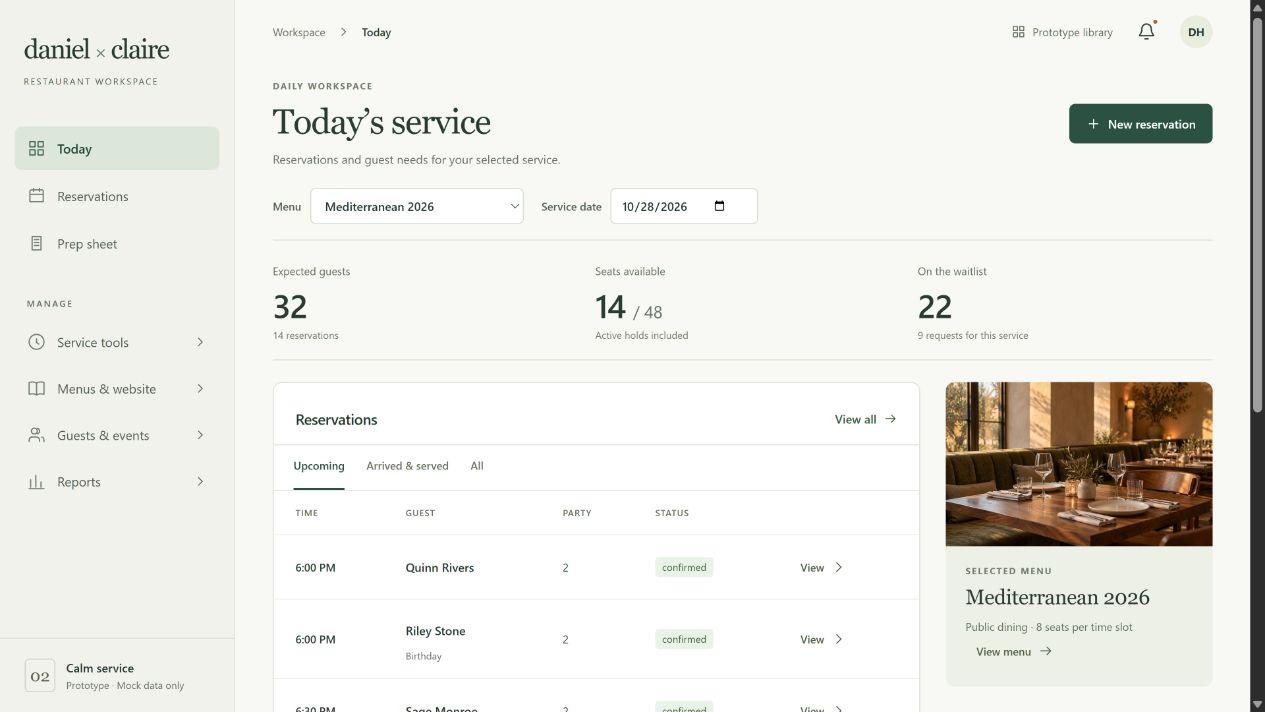
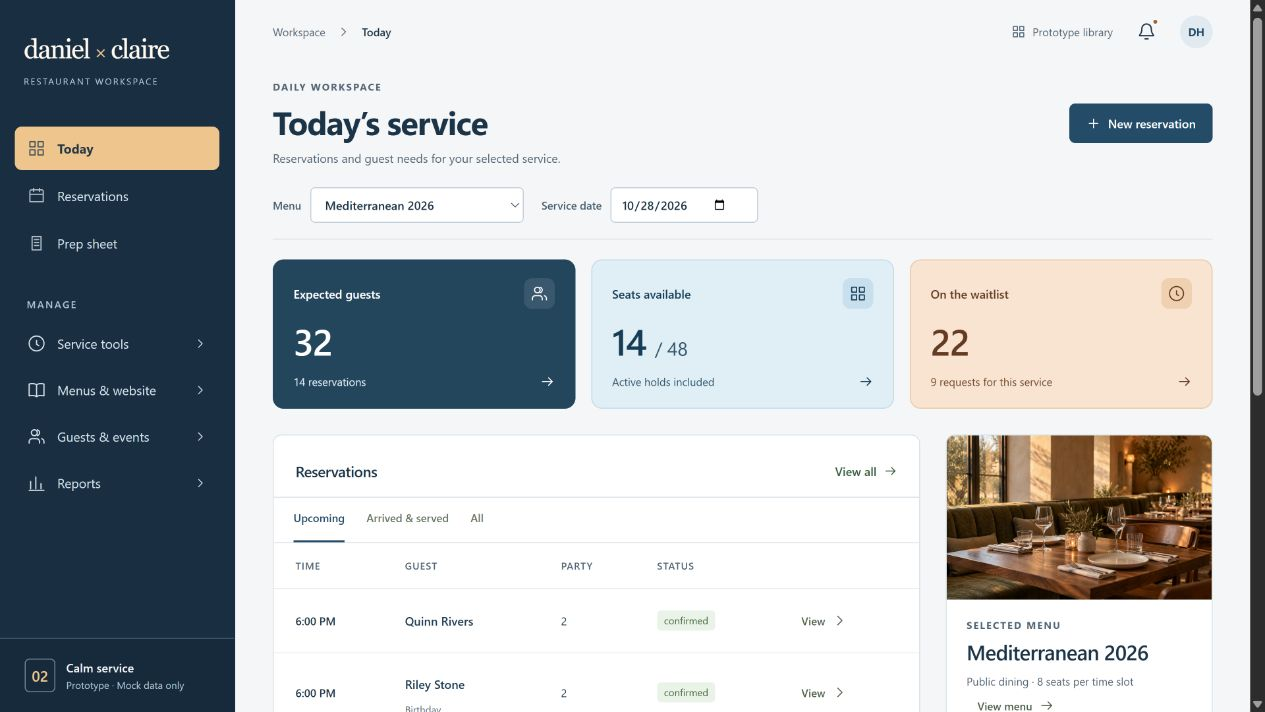
style: distinguish prototype two with colored service cards

diff --git a/public/calm.css b/public/calm.css
@@ -1,47 +1,51 @@
-/* Prototype 02: warm paper, a quieter workspace, and details on demand.
-   Existing component rules keep every operational form and workflow available. */
-:root { --forest:#2b5142; --ink:#293b33; --muted:#667168; --line:#e0e3da; --wash:#eef1e9; --sidebar:238px; background:#f8f8f4; color:var(--ink); font-family:"Segoe UI",system-ui,sans-serif; }
-body { background:#f8f8f4; }
-h1 { font-family:Georgia,serif; font-size:35px; font-weight:400; letter-spacing:-.9px; }
+/* Prototype 02: ink-blue navigation, a light working surface, and warm image accents.
+   Three clickable summary cards lead into the short roster; extra detail stays disclosed.
+   Card lift and arrow movement clarify affordance; reduced motion removes both. */
+:root { --forest:#244c68; --ink:#1c3448; --muted:#526575; --line:#dbe3e9; --wash:#eaf0f5; --sidebar:238px; background:#f4f6f8; color:var(--ink); font-family:"Segoe UI",system-ui,sans-serif; }
+body { background:#f4f6f8; }
+h1 { font-family:"Segoe UI",system-ui,sans-serif; font-size:33px; font-weight:650; letter-spacing:-.9px; }
 h2 { font-weight:600; font-size:17px; }
-.sidebar { background:#f1f2ec; border-color:#e0e3da; }
-.brand { padding:34px 24px 30px; border:0; }
+.sidebar { background:#192e40; border-color:#192e40; color:#edf3f7; }
+.brand { padding:34px 24px 30px; border:0; color:#fff9ef; }
 .brand-name { font-size:27px; letter-spacing:-1.2px; white-space:nowrap; }
-.brand-name span { font-size:19px; font-style:normal; margin:0; }
-.brand-caption { font-size:9px; letter-spacing:1.5px; margin-top:10px; }
+.brand-name span { font-size:19px; font-style:normal; margin:0; color:#edc391; }
+.brand-caption { font-size:9px; letter-spacing:1.5px; margin-top:10px; color:#b5c7d7; }
 .nav-scroll { padding:6px 15px 24px; }
 .nav-primary { padding-bottom:28px; }
-.nav-label { font-size:9px; font-weight:600; color:#657262; margin:0 0 10px; padding:0 12px; letter-spacing:1.5px; }
-.nav-item { min-height:44px; font-size:13px; gap:12px; padding:11px 13px; border-radius:7px; color:#526052; }
-.nav-item.active { background:#dde7d9; box-shadow:none; color:#234735; }
-.nav-item:hover { background:#e5eade; }
+.nav-label { font-size:10px; font-weight:600; color:#b1c3d3; margin:0 0 10px; padding:0 12px; letter-spacing:1.5px; }
+.nav-item { min-height:44px; font-size:13px; gap:12px; padding:11px 13px; border-radius:7px; color:#d4e1eb; }
+.nav-item.active { background:#efc58e; box-shadow:none; color:#233747; font-weight:650; }
+.nav-item:hover { background:#2a455a; color:#fff; }.nav-item.active:hover { background:#f4d3a8; color:#233747; }
 .nav-primary .nav-item { margin:4px 0; }
 .nav-primary .nav-item .icon { width:18px; height:18px; }
 .nav-section { margin:3px 0; }
-.nav-section>summary { display:flex; align-items:center; gap:12px; padding:12px 13px; border-radius:7px; min-height:44px; font-size:13px; color:#526052; cursor:pointer; list-style:none; }
+.nav-section>summary { display:flex; align-items:center; gap:12px; padding:12px 13px; border-radius:7px; min-height:44px; font-size:13px; color:#d4e1eb; cursor:pointer; list-style:none; }
 .nav-section>summary::-webkit-details-marker { display:none; }
-.nav-section>summary:hover { background:#e5eade; }
-.nav-section>summary>.icon:first-child { width:18px; height:18px; opacity:.8; }
+.nav-section>summary:hover { background:#2a455a; color:white; }
+.nav-section>summary>.icon:first-child { width:18px; height:18px; opacity:1; }
 .nav-section .nav-chevron { margin-left:auto; width:13px; height:13px; transition:transform .15s; }
 .nav-section[open] .nav-chevron { transform:rotate(90deg); }
 .nav-children { padding:3px 0 7px 18px; }
 .nav-children .nav-item { min-height:39px; padding:8px 12px; font-size:12px; }
-.sidebar-foot { background:transparent; padding:20px 25px; border-color:var(--line); gap:11px; }
-.concept-number { display:grid; place-items:center; width:31px; height:34px; border:1px solid #ccd4c5; border-radius:5px; font:17px Georgia,serif; color:#526c49; }
-.sidebar-foot strong { font-size:12px; }.sidebar-foot small { display:block; margin-top:3px; font-size:10px; }
-.topbar { background:#f8f8f4; height:64px; border:0; padding:0 38px; }
+.sidebar-foot { background:#162a3b; padding:20px 25px; border-color:#3b5061; gap:11px; }
+.concept-number { display:grid; place-items:center; width:31px; height:34px; border:1px solid #708596; border-radius:5px; font:600 15px "Segoe UI",sans-serif; color:#efc58e; }
+.sidebar-foot strong { font-size:12px; }.sidebar-foot small { display:block; margin-top:3px; font-size:10px; color:#b5c7d7; }.sidebar-close { color:#edf3f7; }.sidebar-close:hover { background:#2a455a; }
+.topbar { background:#f4f6f8; height:64px; border:0; padding:0 38px; }
 .breadcrumb { font-size:11px; }.topbar-actions { gap:15px; }
-.library-link { display:flex; align-items:center; gap:7px; padding:8px 0; text-decoration:none; font-size:11px; color:#61705e; }
+.library-link { display:flex; align-items:center; gap:7px; padding:8px 0; text-decoration:none; font-size:11px; color:#526575; }
 .library-link:hover { color:var(--forest); text-decoration:underline; }.library-link .icon { width:14px; height:14px; }
-.topbar .avatar { background:#e9eddf; border:0; }
+.topbar .avatar { background:#e1eaf1; border:0; color:#244c68; }
 main { padding:16px 38px 32px; max-width:1540px; }
-.page-heading { margin-bottom:20px; align-items:center; }.eyebrow { letter-spacing:1.3px; color:#737c6e; font-size:9px; margin-bottom:7px; }.subtitle { font-size:12px; margin-top:7px; max-width:600px; }
+.page-heading { margin-bottom:20px; align-items:center; }.eyebrow { letter-spacing:1.3px; color:#526575; font-size:10px; margin-bottom:7px; }.subtitle { font-size:12px; margin-top:7px; max-width:600px; }
 .heading-actions { gap:8px; }.btn { min-height:40px; padding:10px 16px; border-radius:6px; font-size:12px; box-shadow:none; }.btn.primary { background:var(--forest); border-color:var(--forest); }.btn.secondary { background:#fff; border-color:#d8dfd0; }.btn.quiet { background:transparent; }.btn.small { min-height:32px; padding:6px 10px; font-size:11px; }
 .panel { border:1px solid var(--line); border-radius:9px; box-shadow:none; background:white; }.panel-head { padding:20px 22px 17px; }.panel-head p { font-size:11px; }.panel-body { padding:6px 22px 20px; }
 .contextbar { border:0; border-bottom:1px solid var(--line); border-radius:0; background:transparent; padding:0 0 16px; margin-bottom:20px; gap:18px; }.context-date { display:none; }.contextbar .live { display:none; }.field.compact { font-size:11px; gap:9px; }.field.compact input,.field.compact select { background:white; border-color:#d6decf; border-radius:5px; min-height:36px; font-size:12px; }
-.service-summary { display:grid; grid-template-columns:repeat(3,minmax(0,1fr)); gap:28px; border-bottom:1px solid var(--line); padding:0 0 18px; margin-bottom:22px; }
-.service-summary a { display:block; text-decoration:none; }.service-summary a:hover .summary-label { color:var(--forest); text-decoration:underline; }
-.summary-label { color:#657160; font-size:11px; }.summary-value { display:block; font-size:33px; font-weight:500; letter-spacing:-1px; line-height:1.4; margin:3px 0 1px; }.summary-value small { font-size:17px; font-weight:400; letter-spacing:0; }.summary-note { display:block; color:#747d6c; font-size:10px; }
+.service-summary { display:grid; grid-template-columns:repeat(3,minmax(0,1fr)); gap:16px; padding:0; margin:0 0 26px; border:0; }
+.summary-card { --card-bg:#24465d; --card-ink:#fff; --card-secondary:#e2edf4; --card-border:#24465d; --symbol-bg:#ffffff19; display:block; min-width:0; padding:18px 20px; text-decoration:none; border:1px solid var(--card-border); border-radius:11px; background:var(--card-bg); color:var(--card-ink); transition:transform .16s ease,box-shadow .16s ease; }
+.summary-card.seats { --card-bg:#e0eef6; --card-ink:#173d56; --card-secondary:#31576d; --card-border:#c3dbe9; --symbol-bg:#c8dfed; }
+.summary-card.waitlist { --card-bg:#f8e4d0; --card-ink:#663b23; --card-secondary:#754b30; --card-border:#ebc9a8; --symbol-bg:#efd0b0; }
+.summary-card-head,.summary-card-foot { display:flex; justify-content:space-between; align-items:center; gap:10px; }.summary-label { color:var(--card-ink); font-size:12px; font-weight:550; }.summary-symbol { display:grid; place-items:center; width:31px; height:31px; border-radius:8px; background:var(--symbol-bg); flex-shrink:0; }.summary-symbol .icon { width:17px; height:17px; }
+.summary-value { display:block; font-size:37px; font-weight:600; letter-spacing:-1px; line-height:1.2; margin:10px 0 11px; }.summary-value small { font-size:19px; color:var(--card-secondary); font-weight:400; letter-spacing:0; }.summary-note { display:block; color:var(--card-secondary); font-size:11px; line-height:1.5; }.summary-arrow { width:15px; height:15px; color:var(--card-ink); flex-shrink:0; transition:transform .16s ease; }.summary-card:hover { transform:translateY(-2px); box-shadow:0 7px 17px #18344b16; }.summary-card:hover .summary-arrow { transform:translateX(3px); }.summary-card:focus-visible { outline:3px solid #a25d20; outline-offset:4px; }
 .calm-layout { display:grid; grid-template-columns:minmax(0,1fr) 270px; gap:26px; align-items:start; }
 .calm-primary,.calm-aside { min-width:0; }.calm-primary .panel { overflow:hidden; }.calm-primary .panel-head { padding-bottom:10px; }
 .calm-primary .roster-tabs { padding:0 20px; }.calm-primary .roster-tabs .tabs { gap:22px; }.calm-primary .roster-tabs .tab { padding:10px 0 13px; font-size:11px; }
@@ -54,11 +58,16 @@ main { padding:16px 38px 32px; max-width:1540px; }
 .toolbar { margin:17px 0; gap:13px; }.search input { min-height:40px; border-color:#d6decf; font-size:12px; }.tabs-bar { border-bottom-color:var(--line); }.tabs .tab { font-weight:500; }.result-count { font-size:11px; color:#6d7868; }.filter-disclosure { position:relative; }.filter-disclosure>summary { display:flex; align-items:center; gap:7px; padding:9px 12px; min-height:40px; font-size:12px; background:white; border:1px solid #d6decf; border-radius:5px; cursor:pointer; list-style:none; }.filter-disclosure>summary::-webkit-details-marker { display:none; }.filter-disclosure>summary .icon { width:14px; height:14px; }.filter-popover { display:flex; gap:15px; padding:16px; position:absolute; top:48px; right:0; z-index:8; border:1px solid var(--line); border-radius:8px; background:white; box-shadow:0 8px 28px #24382b12; min-width:320px; }.filter-popover .field { flex-direction:column; align-items:stretch; }
 .menu-collection { display:flex; flex-direction:column; gap:18px; }.menu-editorial { display:grid; grid-template-columns:210px minmax(0,1fr); background:white; border:1px solid var(--line); border-radius:9px; overflow:hidden; }.menu-editorial>img { width:100%; height:100%; min-height:205px; object-fit:cover; }.menu-editorial.no-photo { grid-template-columns:1fr; }.menu-editorial-body { padding:23px 26px; }.menu-editorial-head { display:flex; align-items:center; justify-content:space-between; gap:18px; }.menu-editorial h2 { font:25px Georgia,serif; }.menu-editorial p { color:var(--muted); font-size:12px; margin-top:11px; max-width:650px; }.menu-facts { display:flex; flex-wrap:wrap; gap:10px 24px; font-size:11px; padding:17px 0; color:#66735e; }.menu-facts strong { font-weight:550; color:var(--ink); }.menu-release { font-size:11px; color:#66735e; }.menu-release strong { font-weight:500; }.menu-editorial .action-row { margin-top:17px; }
 .booking-extras { grid-column:1/-1; border-top:1px solid var(--line); padding-top:14px; }.booking-extras summary { cursor:pointer; font-size:12px; padding:4px 0; font-weight:500; }.booking-extras .form-grid { margin-top:18px; }.dialog-body .field input,.dialog-body .field select,.dialog-body .field textarea { border-color:#c8d2c0; }.dialog-head { padding:24px; }.dialog-head h2 { font-family:Georgia,serif; font-size:25px; font-weight:400; }.dialog-body { padding:24px; }.dialog-body .form-grid { gap:18px; }.subtle-footer { font-size:10px; margin-top:30px; }.pagination { font-size:10px; padding:14px 20px; }.pagination .btn { font-size:10px; }.notes-box { background:#f0f3e9; }.badge { font-weight:450; }.panel .table-date { background:#f7f8f3; }
+.btn.primary:hover { background:#17384f; border-color:#17384f; }.btn.secondary { border-color:#cad6df; }.field>span { color:#485e70; }.contextbar .field.compact input,.contextbar .field.compact select,.search input,.filter-disclosure>summary { border-color:#c2d0dc; }.calm-roster th { color:#526575; font-size:10px; }.panel .table-date { background:#f0f4f7; color:#41596c; }.result-count { color:#526575; }.calm-roster .guest-name { color:#213d53; }
+.menu-feature { background:#fff; border:1px solid var(--line); }.menu-feature h2,.menu-editorial h2 { font-family:"Segoe UI",system-ui,sans-serif; font-weight:600; letter-spacing:-.5px; }.menu-feature h2 { font-size:21px; }.menu-feature p:not(.eyebrow),.menu-facts,.menu-release { color:#526575; }.menu-editorial h2 { font-size:24px; }.dialog-head h2 { font-family:"Segoe UI",system-ui,sans-serif; font-size:23px; font-weight:600; letter-spacing:-.5px; }
+.service-needs h2 { font-size:13px; }.needs-link .needs-count { background:#f4e1cc; color:#71442b; }.needs-link strong { font-size:12px; }.needs-link small { color:#526575; }.needs-link>.icon { color:#526575; }.prep-shortcut { display:inline-flex; gap:6px; margin-top:17px; font-size:12px; }.service-disclosure { background:#fff; }.service-disclosure>summary small { color:#526575; }.notes-box { background:#edf3f7; }.dialog-body .field input,.dialog-body .field select,.dialog-body .field textarea { border-color:#bdccd8; }
 @media(min-width:1600px) { :root{--sidebar:250px;} main { padding:24px 48px 40px; }.topbar { padding:0 48px; }.calm-layout { grid-template-columns:minmax(0,1fr) 300px; gap:32px; }.menu-feature img { height:190px; } }
 @media(max-width:1200px) { :root{--sidebar:218px;} .brand { padding-left:21px; }.brand-name { font-size:24px; }.nav-scroll { padding-left:10px; padding-right:10px; } main { padding:20px 26px 30px; }.topbar { padding:0 26px; }.calm-layout { grid-template-columns:minmax(0,1fr) 235px; gap:20px; }.calm-roster th,.calm-roster td { padding:15px 12px; }.menu-feature img { height:154px; }.menu-editorial { grid-template-columns:180px minmax(0,1fr); } }
 @media(max-width:1080px) { .calm-layout { grid-template-columns:minmax(0,1fr); }.calm-aside { display:grid; grid-template-columns:1fr 1fr; gap:24px; }.menu-feature { display:grid; grid-template-columns:1fr; }.menu-feature img { height:145px; }.service-needs { padding-top:5px; }.calm-aside>.service-disclosure { grid-column:1/-1; margin-top:0; }.calm-roster th,.calm-roster td { padding:16px 18px; } }
 @media(max-width:760px) { :root { --sidebar:260px; }.sidebar { width:260px; }.brand { padding:29px 22px; }.brand-name { font-size:26px; }.sidebar-close { top:25px; right:8px; }.topbar { height:64px; padding:0 20px; }.topbar-actions { gap:10px; }.library-link span { display:none; }.library-link { padding:10px; }.library-link .icon { width:17px; height:17px; }.breadcrumb>span:first-of-type,.breadcrumb>.icon { display:none; } main { padding:22px 20px 28px; } h1 { font-size:31px; }.page-heading { align-items:flex-start; gap:14px; margin-bottom:22px; }.page-heading .subtitle { font-size:11px; }.heading-actions .btn { white-space:nowrap; font-size:11px; padding:10px 12px; }.heading-actions .btn .icon { width:15px; height:15px; }.page-heading .eyebrow { margin-top:0; }.contextbar { gap:12px; padding-bottom:18px; }.contextbar .field.compact { flex-direction:column; align-items:flex-start; flex:1 1 140px; gap:6px; }.contextbar select,.contextbar input { width:100%; }.service-summary { gap:16px; padding-bottom:20px; margin-bottom:21px; }.summary-value { font-size:29px; }.summary-value small { font-size:14px; }.summary-label { font-size:10px; }.summary-note { font-size:9px; max-width:95px; }.calm-primary .panel-head { padding:18px 16px 10px; }.calm-primary .panel-head h2 { font-size:15px; }.calm-primary .panel-head>.text-link { font-size:11px; }.calm-primary .roster-tabs { padding:0 15px; }.calm-primary .roster-tabs .tabs { gap:17px; }.calm-primary .roster-tabs .tab { font-size:10px; }.calm-roster th,.calm-roster td { padding:14px 11px; }.calm-roster th:first-child,.calm-roster td:first-child { padding-left:16px; }.calm-primary .calm-roster { min-width:470px; }.calm-aside { grid-template-columns:1fr; gap:22px; }.menu-feature { grid-template-columns:1fr 1fr; }.menu-feature img { height:100%; min-height:185px; }.menu-feature figcaption { padding:18px 16px; }.menu-feature h2 { font-size:20px; }.service-needs { padding:0; }.calm-aside { margin-top:4px; }.service-disclosure>summary small { display:none; }.more-insights { margin-top:22px; }.more-insights .activity-strip { grid-template-columns:1fr; }.menu-editorial { grid-template-columns:1fr; }.menu-editorial>img { height:160px; min-height:0; }.menu-editorial-body { padding:20px; }.menu-editorial h2 { font-size:23px; }.filter-popover { min-width:280px; flex-direction:column; left:auto; right:0; }.toolbar .search { flex:1 1 180px; }.toolbar .result-count { flex-basis:100%; }.subtle-footer { flex-direction:column; gap:4px; }.subtle-footer .btn { padding-left:5px; }.insight-intro { gap:15px; }.menu-editorial-head { flex-wrap:wrap; gap:10px; } }
 @media(max-width:420px) { .page-heading { flex-wrap:wrap; }.page-heading .heading-actions { width:100%; }.page-heading .heading-actions .btn.primary { margin-left:auto; }.menu-feature { grid-template-columns:1fr; }.menu-feature img { height:150px; min-height:0; }.summary-value { font-size:27px; }.topbar-actions { gap:6px; }.topbar { padding:0 16px; } }
 @media(max-width:760px) { .toolbar { position:relative; }.filter-disclosure { position:static; }.filter-popover { left:0; right:0; top:calc(100% + 6px); min-width:0; }.summary-note { font-size:10px; } }
+@media(max-width:760px) { .service-summary { gap:10px; padding-bottom:0; margin-bottom:24px; }.summary-card { padding:14px 10px; border-radius:9px; }.summary-card-head { min-height:32px; align-items:flex-start; gap:0; }.summary-symbol,.summary-arrow { display:none; }.summary-label { font-size:11px; line-height:1.4; overflow-wrap:break-word; }.summary-value { font-size:29px; margin:9px 0 8px; }.summary-value small { font-size:14px; }.summary-card-foot { gap:0; min-height:32px; align-items:flex-start; }.summary-note { max-width:none; font-size:10px; overflow-wrap:break-word; } }
 @media(prefers-reduced-motion:reduce) { *,*::before,*::after { animation:none!important; transition:none!important; } }
+@media(prefers-reduced-motion:reduce) { .summary-card:hover,.summary-card:hover .summary-arrow { transform:none; } }
 @media print { .calm-aside,.library-link { display:none!important; }.calm-layout { display:block; }.menu-editorial { display:block; }.menu-editorial>img { display:none; }.service-disclosure { border:0; } }

diff --git a/public/views.js b/public/views.js
@@ -27,9 +27,9 @@ function overview(db,ui) {
   const need=(count,title,detail,route)=>link(`<span class="needs-count">${count}</span><div><strong>${title}</strong><small>${detail}</small></div>${icon('chevron')}`,route,'needs-link');
   return pageHead('Today’s service','Reservations and guest needs for your selected service.',button(icon('plus')+' New reservation','new-reservation','primary'),'Daily workspace')+context(db,ui)+
     `<section class="service-summary" aria-label="Service summary">
-      <a href="#/reservations"><span class="summary-label">Expected guests</span><strong class="summary-value">${sum(booked)}</strong><span class="summary-note">${booked.length} reservations</span></a>
-      <a href="#/availability"><span class="summary-label">Seats available</span><strong class="summary-value">${left} <small>/ ${capacity}</small></strong><span class="summary-note">Active holds included</span></a>
-      <a href="#/waitlist"><span class="summary-label">On the waitlist</span><strong class="summary-value">${sum(wait)}</strong><span class="summary-note">${wait.length} requests for this service</span></a>
+      <a class="summary-card guests" href="#/reservations"><span class="summary-card-head"><span class="summary-label">Expected guests</span><span class="summary-symbol">${icon('people')}</span></span><strong class="summary-value">${sum(booked)}</strong><span class="summary-card-foot"><span class="summary-note">${booked.length} reservations</span>${icon('arrow','summary-arrow')}</span></a>
+      <a class="summary-card seats" href="#/availability"><span class="summary-card-head"><span class="summary-label">Seats available</span><span class="summary-symbol">${icon('grid')}</span></span><strong class="summary-value">${left} <small>/ ${capacity}</small></strong><span class="summary-card-foot"><span class="summary-note">Active holds included</span>${icon('arrow','summary-arrow')}</span></a>
+      <a class="summary-card waitlist" href="#/waitlist"><span class="summary-card-head"><span class="summary-label">On the waitlist</span><span class="summary-symbol">${icon('clock')}</span></span><strong class="summary-value">${sum(wait)}</strong><span class="summary-card-foot"><span class="summary-note">${wait.length} requests for this service</span>${icon('arrow','summary-arrow')}</span></a>
     </section>
     <div class="calm-layout"><div class="calm-primary"><section class="panel"><div class="panel-head"><h2>Reservations</h2>${link('View all '+icon('arrow'),'reservations')}</div><div class="roster-tabs">${tabs([['upcoming','Upcoming'],['arrived','Arrived & served'],['all','All']],f.view||'upcoming')}</div>${reservationTable(db,visible.slice(0,5),{compact:true})}<div class="pagination"><span>Showing ${Math.min(5,visible.length)} of ${visible.length} matching reservations</span>${link('Open list '+icon('arrow'),'reservations')}</div></section>
     <details class="service-disclosure" data-disclosure="seating" ${ui.disclosures?.seating?'open':''}><summary>Seating by time<small>${left} seats available</small>${icon('chevron')}</summary><div class="panel-body">${slots.map(s=>`<div class="capacity-row"><div class="capacity-row-title"><span>${timeLabel(s.time)}</span><span>${s.booked} booked · ${s.held} held · ${s.left} available</span></div><div class="capacity-track" role="img" aria-label="${timeLabel(s.time)}: ${s.booked} booked, ${s.held} held, ${s.left} of ${s.capacity} seats available"><div class="capacity-fill ${s.left===0?'full':''}" style="width:${s.capacity?Math.min(100,(s.booked+s.held)/s.capacity*100):0}%"></div></div></div>`).join('')}${link('Manage availability '+icon('arrow'),'availability')}</div></details></div>

diff --git a/README.md b/README.md
@@ -70,11 +70,13 @@ The live admin site must remain untouched during prototype work. Preserve the or
 
 This variation keeps all 17 screens and the existing mock workflows. The overview prioritizes three service totals and a short reservation list. Seating by time and restaurant-wide insights open on demand. Native navigation disclosures group the less frequent tools; dietary notes remain visible in guest rows. Reservation filters and optional guest preferences are also disclosed when needed, with existing preferences expanded when editing.
 
+Its visual direction uses ink-blue navigation, an amber active item, sans-serif headings, and three individual summary cards in deep blue, pale blue, and warm amber. Card labels and supporting text measure at least 6:1 contrast against their backgrounds. Card links remain keyboard accessible; hover motion is removed for reduced-motion preferences. The layout has been checked down to a 320px viewport.
+
 Images appear in the selected-service context and the Mediterranean menu preview. These are generated concept images, not photographs of the actual restaurant or its actual food. The saved asset paths, full prompts, and generation method are in `artifacts/image-prompts.txt`.
 
-The active implementation lives on `prototype/calm-service`, with checkpoint tag `prototype-v2`; `prototype-v1` remains unchanged. The root development preview and the packaged gallery version use separate storage, so they can be tried independently. The second design has been checked for booking creation/editing, optional notes, prep-sheet propagation, filtering, menu editing, image loading, mobile layout, and keyboard containment in the grouped mobile navigation.
+The active implementation lives on `prototype/calm-service`, with current checkpoint tag `prototype-v2.1`; the original `prototype-v2` checkpoint and `prototype-v1` remain unchanged. The root development preview and the packaged gallery version use separate storage, so they can be tried independently. The second design has been checked for booking creation/editing, optional notes, prep-sheet propagation, filtering, menu editing, image loading, mobile layout, and keyboard containment in the grouped mobile navigation.
 
-Before starting a third design, pin the `calm-service` gallery entry to `prototype-v2`, then add a separate entry with `ref: "working-tree"`. This keeps both completed designs intact as the next one changes.
+Before starting a third design, pin the `calm-service` gallery entry to `prototype-v2.1`, then add a separate entry with `ref: "working-tree"`. This keeps both completed designs intact as the next one changes.
 
 ## Prototype library and future GitHub Pages hosting
 
